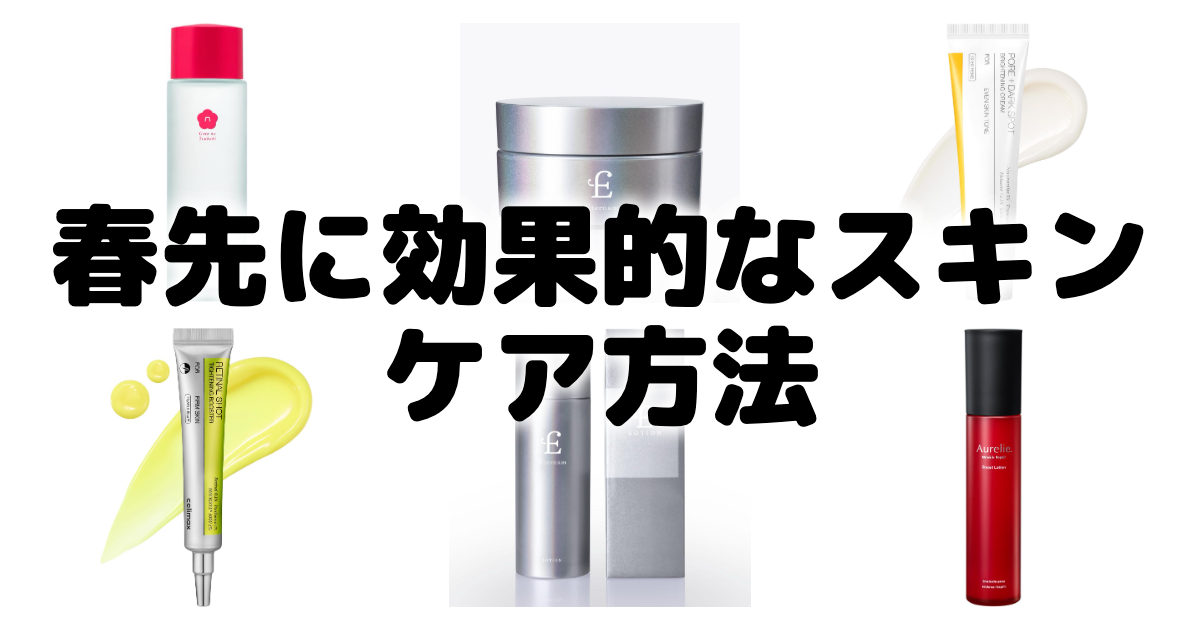
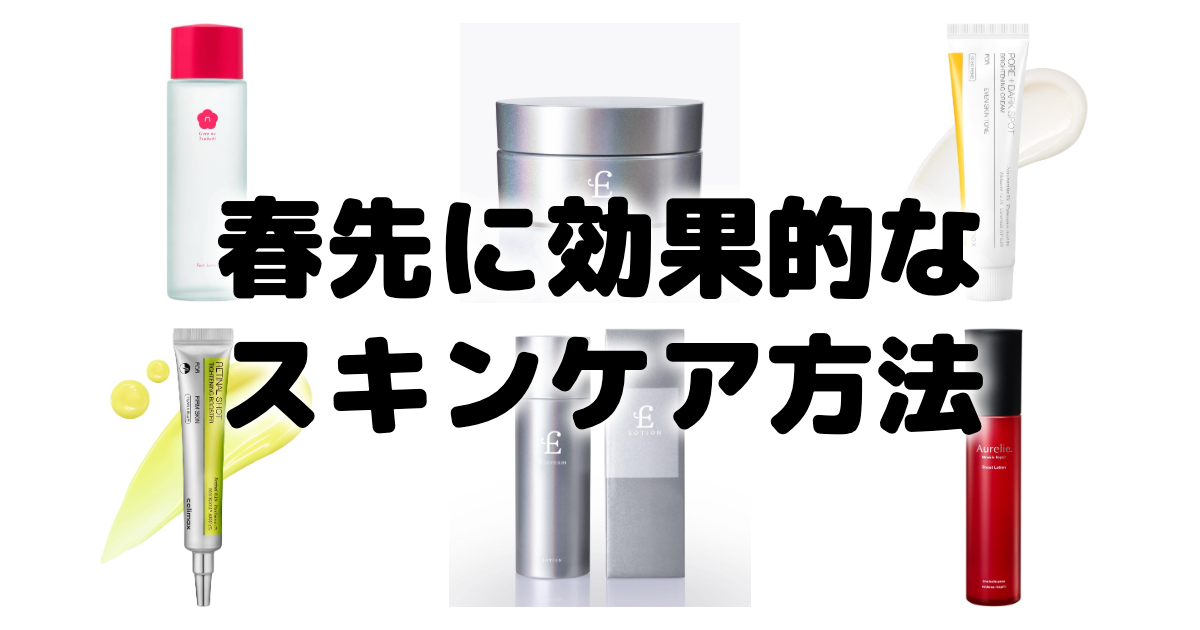
fix: implement natural line breaks for eyecatch titles [skip ci]

Changed region(s): [[0.0308, 0.2714, 0.9558, 0.7238]]

diff --git a/public/eyecatch/20260418-skincare-spring.html b/public/eyecatch/20260418-skincare-spring.html
@@ -7,7 +7,7 @@ body { font-family: 'M PLUS Rounded 1c', sans-serif; display: flex; align-items:
 .pw { width: 100%; height: 100%; display: flex; align-items: center; justify-content: center; }
 .pi { max-width: 360px; max-height: 280px; object-fit: contain; mix-blend-mode: multiply; }
 .to { position: absolute; inset: 0; display: flex; align-items: center; justify-content: center; z-index: 100; pointer-events: none; }
-.ti { font-size: 110px; font-weight: 900; color: #000; line-height: 1.1; text-align: center; padding: 0 50px; text-shadow: 0 0 20px #fff, 0 0 20px #fff, 0 0 20px #fff; }
+.ti { font-size: 110px; font-weight: 900; color: #000; line-height: 1.25; text-align: center; padding: 0 60px; text-shadow: 0 0 20px #fff, 0 0 20px #fff, 0 0 20px #fff; word-break: keep-all; }
 </style></head><body>
 <div class="g"><div class="pw"><img src="https://m.media-amazon.com/images/I/31mZ69wYBNL._AC_SL1024_.jpg" class="pi" alt="" /></div>
 <div class="pw"><img src="https://m.media-amazon.com/images/I/51k1sU+PgOL._AC_SL1000_.jpg" class="pi" alt="" /></div>
@@ -16,5 +16,5 @@ body { font-family: 'M PLUS Rounded 1c', sans-serif; display: flex; align-items:
 <div class="pw"><img src="https://m.media-amazon.com/images/I/618WaWp8RLL._AC_SL1350_.jpg" class="pi" alt="" /></div>
 <div class="pw"><img src="https://m.media-amazon.com/images/I/511Lo3dch8L._AC_SL1500_.jpg" class="pi" alt="" /></div>
 </div>
-<div class="to"><h1 class="ti">春先に効果的なスキンケア方法</h1></div>
+<div class="to"><h1 class="ti">春先に効果的な<br />スキンケア方法</h1></div>
 </body></html>

diff --git a/scripts/publish_article.py b/scripts/publish_article.py
@@ -103,6 +103,22 @@ def get_seasonal_catch_copy(category: str) -> str:
     choices = options.get(category, [f"{year}年{season}のベストバイアイテム"])
     return random.choice(choices)
 
+def format_eyecatch_title(title: str) -> str:
+    # Insert a <br /> tag at a natural break point if the title is long
+    if len(title) <= 11: return title
+    
+    # Preferred breaking points (particles and punctuation)
+    separators = ["の", "で", "に", "は", "が", "を", "！", "？", "：", "、", " ", "　"]
+    # Look for a separator near the middle of the string (±3 chars)
+    mid = len(title) // 2
+    for offset in [0, 1, -1, 2, -2, 3, -3]:
+        idx = mid + offset
+        if 0 < idx < len(title) - 1 and title[idx] in separators:
+            return title[:idx+1] + "<br />" + title[idx+1:]
+    
+    # Fallback: break at the midpoint
+    return title[:mid] + "<br />" + title[mid:]
+
 def generate_eyecatch_html(slug: str, title: str, category: str, image_urls: list, catch_copy: str) -> str:
     # 1200x630 3x2 grid design
     imgs_html = ""
@@ -113,6 +129,10 @@ def generate_eyecatch_html(slug: str, title: str, category: str, image_urls: lis
     for _ in range(max(0, 6 - target_count)):
         imgs_html += '<div class="pw"></div>\n'
     
+    # Format title with line breaks and adjust size for long text
+    display_title = format_eyecatch_title(title)
+    font_size = "110px" if len(title) <= 15 else "90px" if len(title) <= 22 else "75px"
+    
     css = f"""@import url('https://fonts.googleapis.com/css2?family=M+PLUS+Rounded+1c:wght@800;900&display=swap');
 * {{ margin: 0; padding: 0; box-sizing: border-box; }}
 html, body {{ width: 1200px; height: 630px; overflow: hidden; background: #fff; }}
@@ -121,12 +141,12 @@ body {{ font-family: 'M PLUS Rounded 1c', sans-serif; display: flex; align-items
 .pw {{ width: 100%; height: 100%; display: flex; align-items: center; justify-content: center; }}
 .pi {{ max-width: 360px; max-height: 280px; object-fit: contain; mix-blend-mode: multiply; }}
 .to {{ position: absolute; inset: 0; display: flex; align-items: center; justify-content: center; z-index: 100; pointer-events: none; }}
-.ti {{ font-size: 110px; font-weight: 900; color: #000; line-height: 1.1; text-align: center; padding: 0 50px; text-shadow: 0 0 20px #fff, 0 0 20px #fff, 0 0 20px #fff; }}
+.ti {{ font-size: {font_size}; font-weight: 900; color: #000; line-height: 1.25; text-align: center; padding: 0 60px; text-shadow: 0 0 20px #fff, 0 0 20px #fff, 0 0 20px #fff; word-break: keep-all; }}
 """
     html = f"""<!DOCTYPE html>
 <html lang="ja"><head><meta charset="UTF-8" /><style>{css}</style></head><body>
 <div class="g">{imgs_html}</div>
-<div class="to"><h1 class="ti">{title}</h1></div>
+<div class="to"><h1 class="ti">{display_title}</h1></div>
 </body></html>"""
     path = f"/Users/tsukika/Desktop/affiliate-portal/public/eyecatch/{slug}.html"
     with open(path, 'w', encoding='utf-8') as f: f.write(html)
